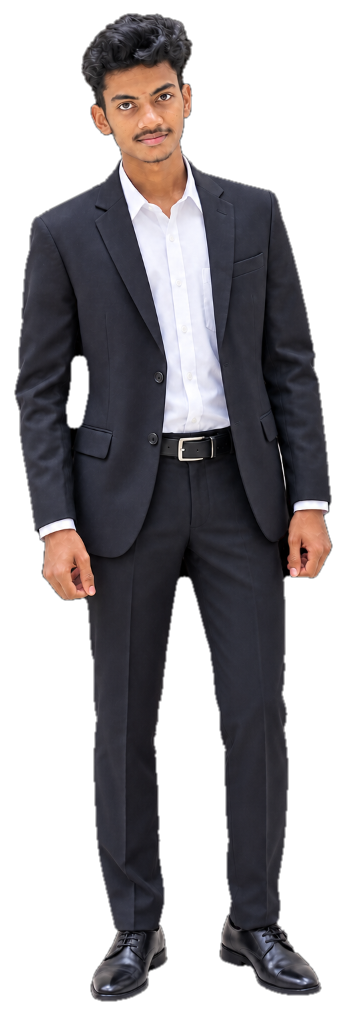
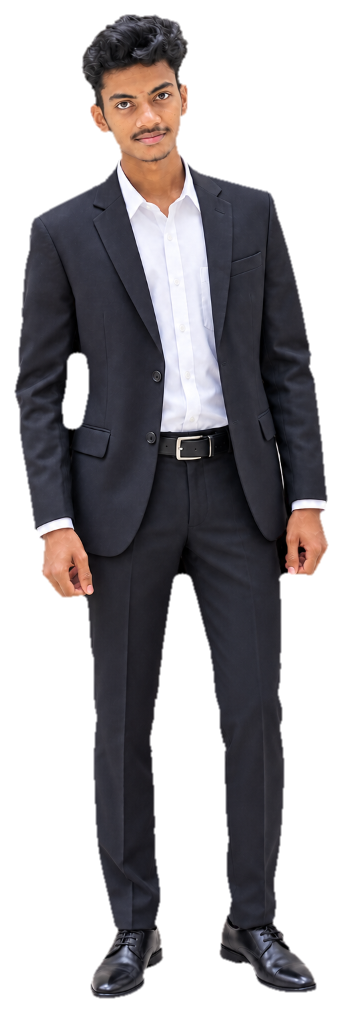
style: reduce profile image size to 220px and remove red border glow filter

diff --git a/style.css b/style.css
@@ -514,7 +514,7 @@ body.hover-image .cursor-ring {
 
 /* Sticker Avatar reveal */
 .profile-avatar-container {
-  width: 280px;
+  width: 220px;
   height: auto;
   margin: 1rem 0 2rem 0;
   perspective: 1000px;
@@ -533,7 +533,7 @@ body.hover-image .cursor-ring {
 }
 
 .profile-avatar-container:hover .profile-frame {
-  transform: rotate(0deg) scale(1.06) translateY(-6px);
+  transform: rotate(0deg) scale(1.04) translateY(-4px);
 }
 
 .profile-img {
@@ -541,12 +541,12 @@ body.hover-image .cursor-ring {
   height: auto;
   object-fit: contain;
   display: block;
-  filter: drop-shadow(0 18px 30px rgba(0, 0, 0, 0.8)) drop-shadow(0 0 20px rgba(201, 56, 43, 0.5));
+  filter: drop-shadow(0 10px 20px rgba(0, 0, 0, 0.4));
   transition: filter 0.5s ease;
 }
 
 .profile-avatar-container:hover .profile-img {
-  filter: drop-shadow(0 24px 40px rgba(0, 0, 0, 0.95)) drop-shadow(0 0 35px rgba(255, 62, 48, 0.85));
+  filter: drop-shadow(0 14px 28px rgba(0, 0, 0, 0.6));
 }
 
 .profile-crosshairs {
@@ -2492,8 +2492,8 @@ body.hover-image .cursor-ring {
   }
   
   .profile-avatar-container {
-    width: 190px;
-    height: 260px;
+    width: 160px;
+    height: auto;
   }
   
   .certifications-wall-grid {
